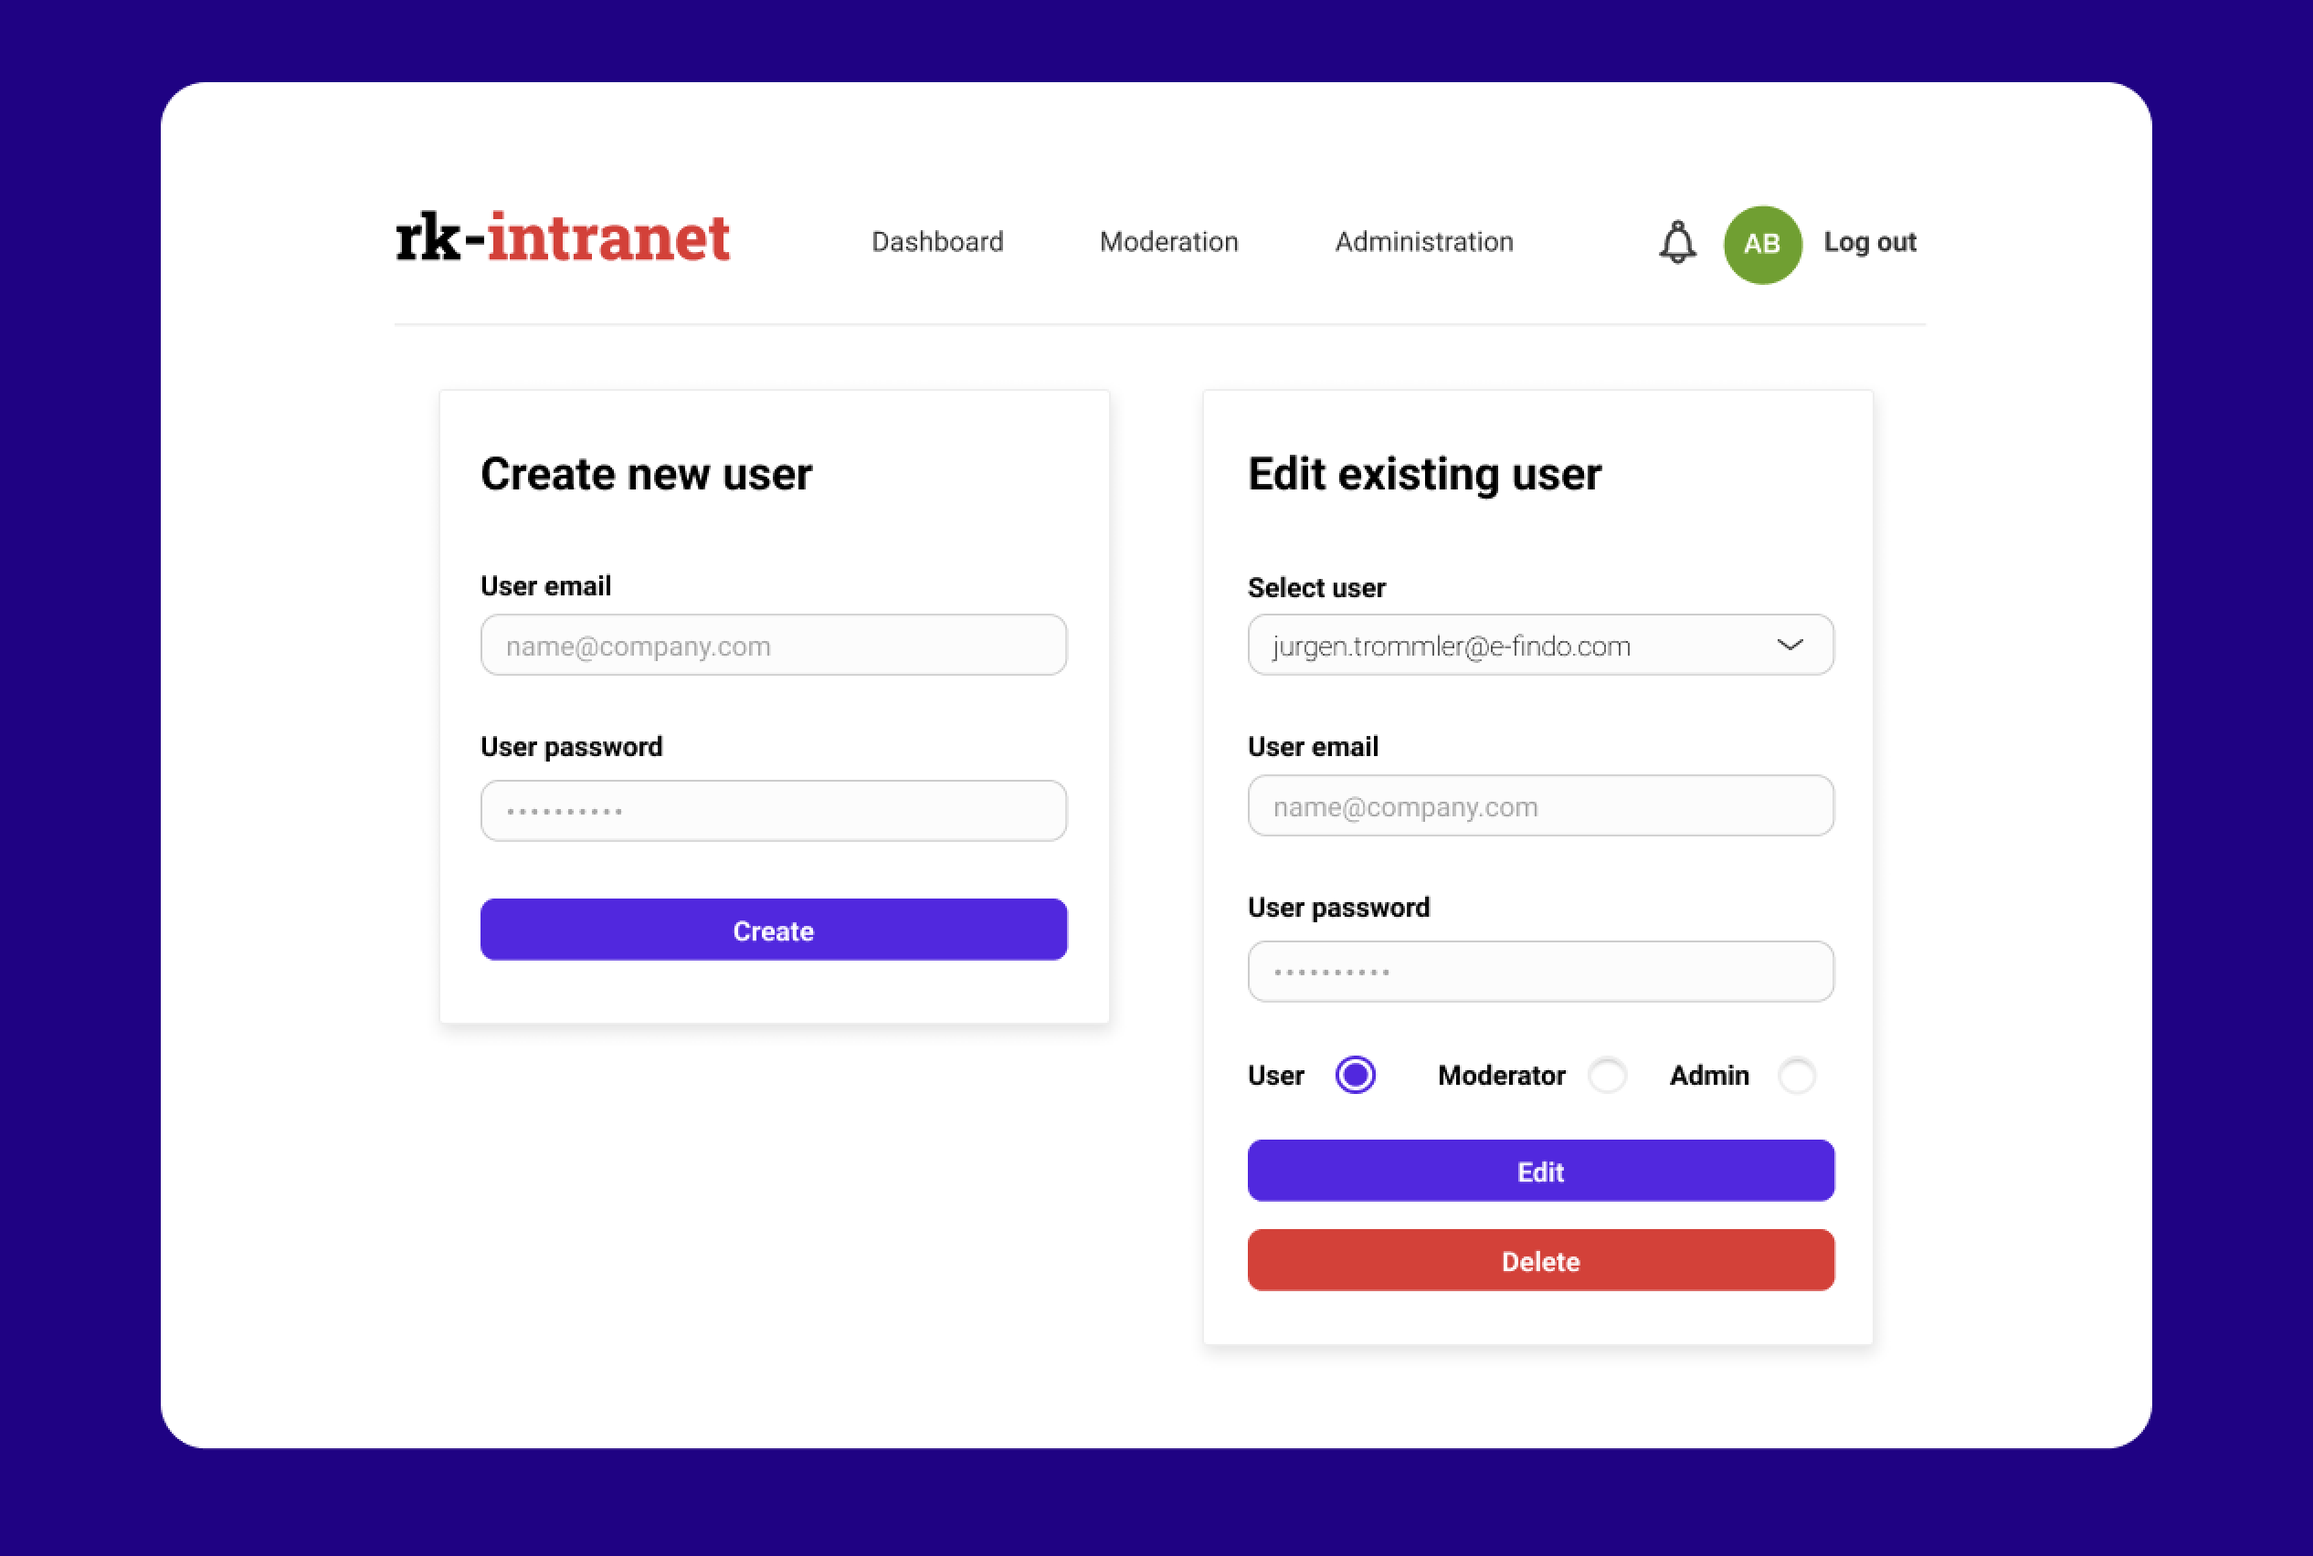
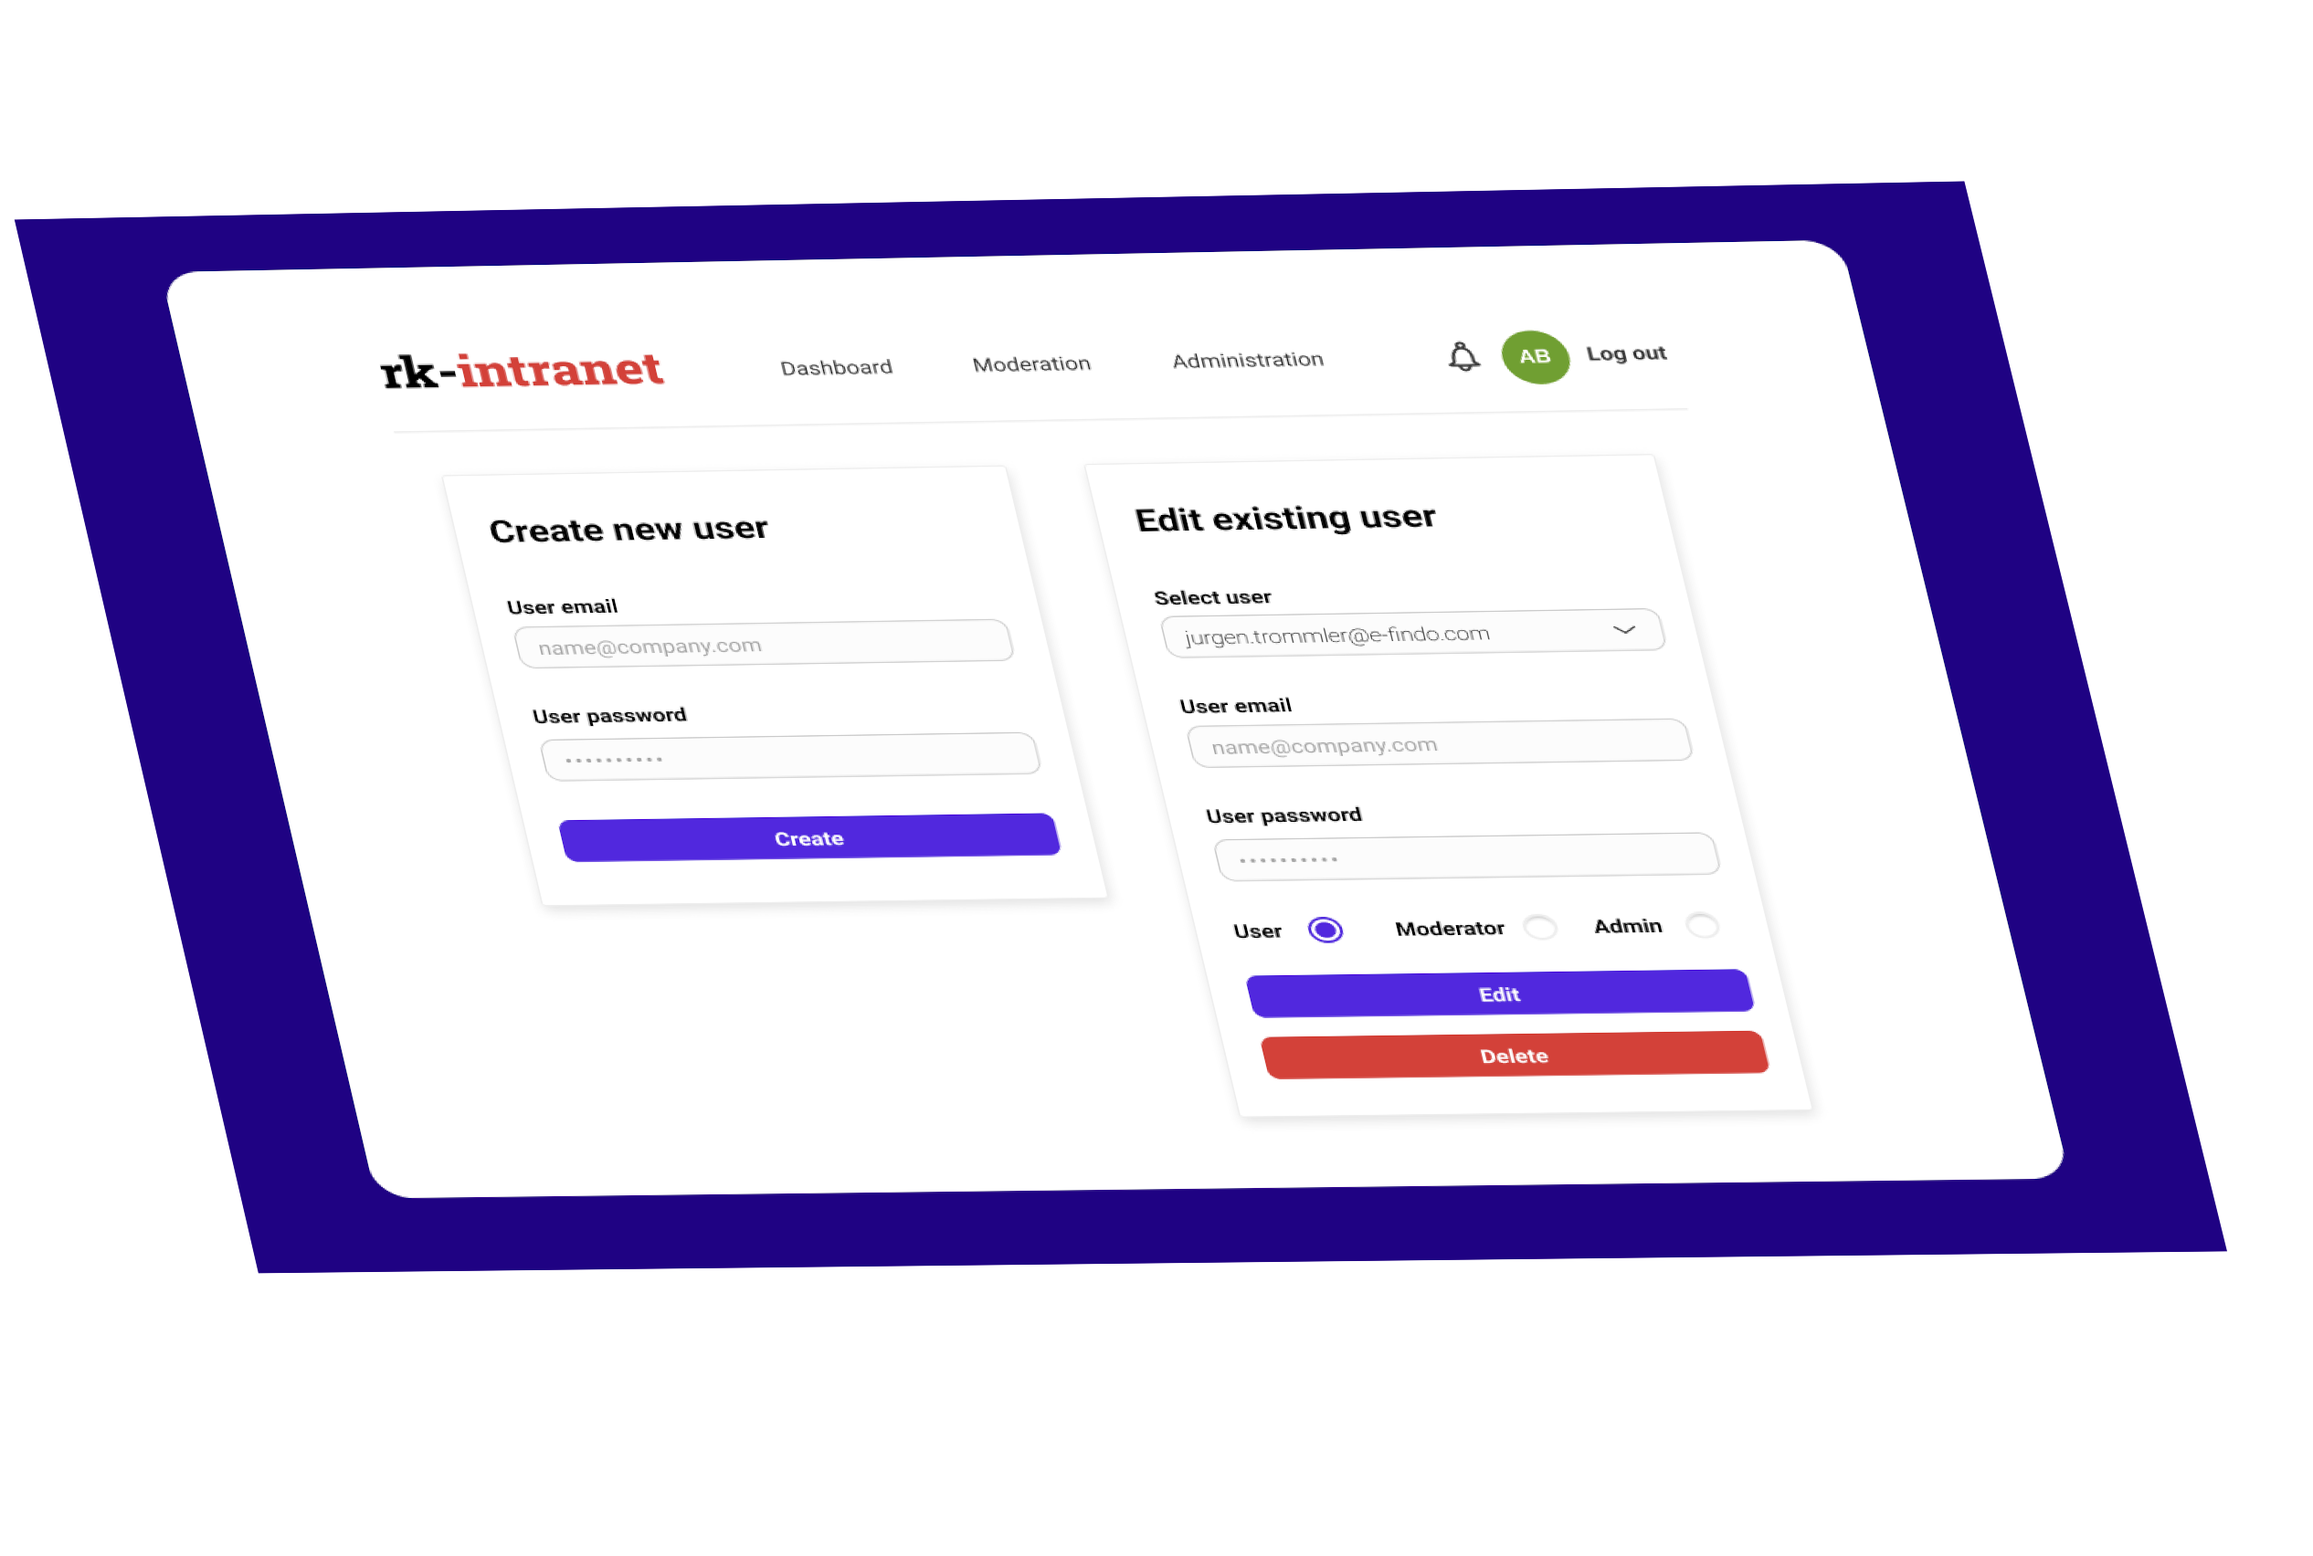
stretch

diff --git a/styles.css b/styles.css
@@ -193,10 +193,10 @@ a {
     border-color: lightgray;
     background: #ffffff;
     margin-left: 20%;
-    background-image: url("https://raw.githubusercontent.com/adrbrodz/adrbrodz.github.io/main/src/rk-intranet-screen.png");
-    background-size: 75rem 80rem;
+    background-image: url("https://raw.githubusercontent.com/adrbrodz/adrbrodz.github.io/main/src/rk-intranet-screen 1.png");
+    background-size: 45rem 45rem;
     background-position: center;
-    background-position-x: 30rem;
+    background-position-x: 32rem;
     background-repeat: no-repeat;
 }
 #rk-intranet img {
